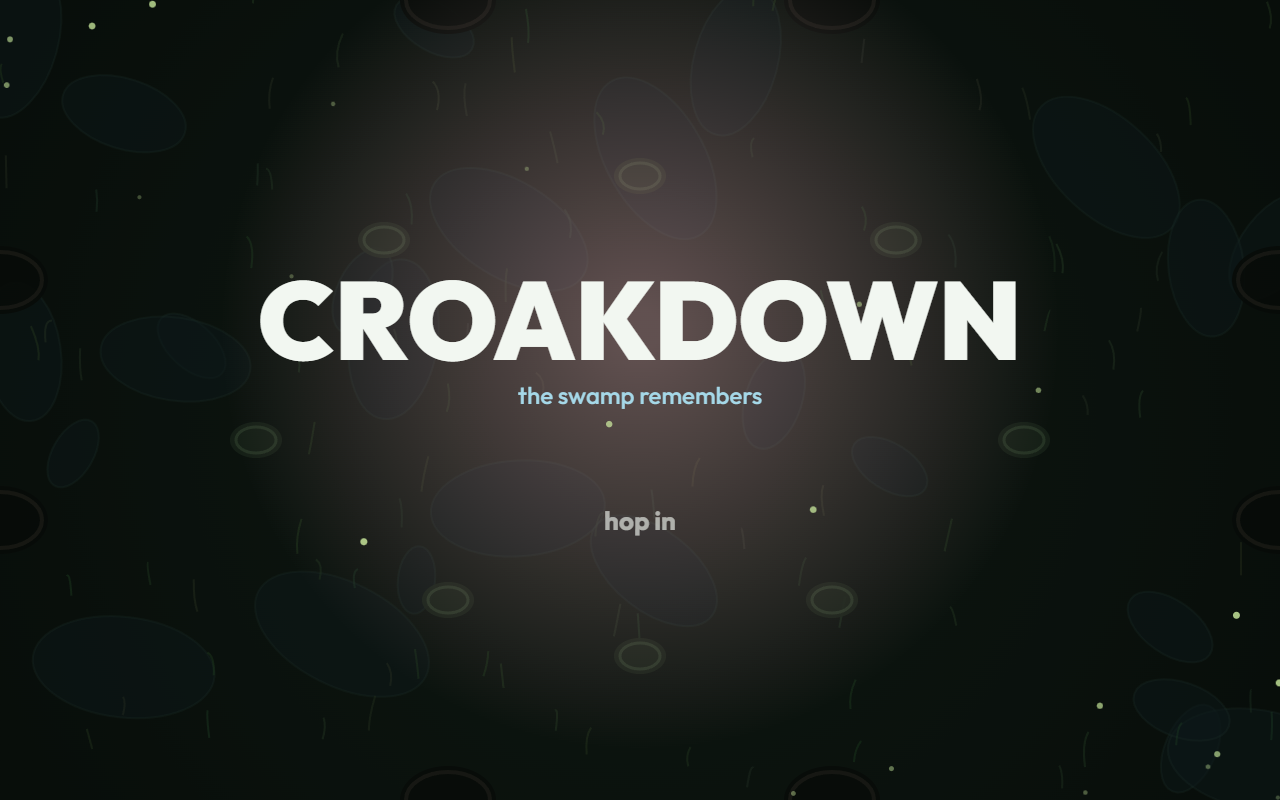
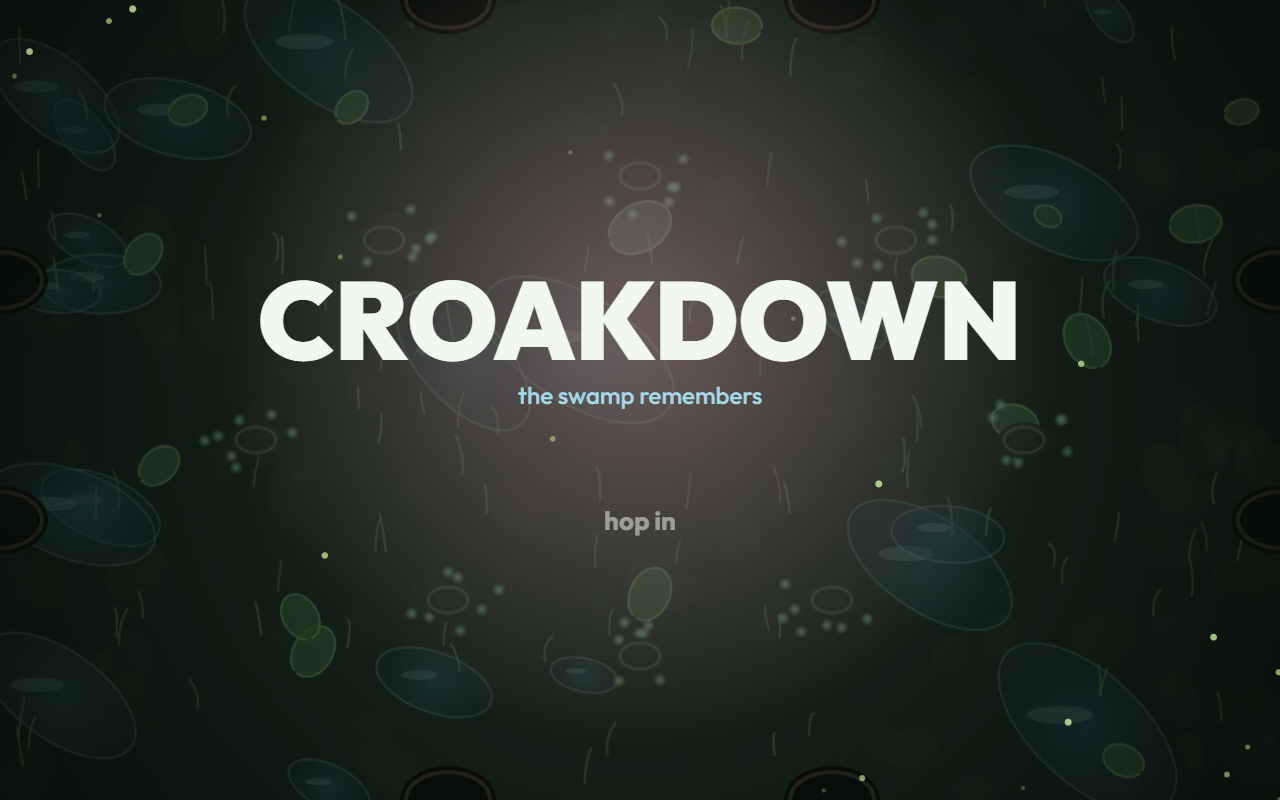
Visual pass 1: readable swamp (pools/pads/moss/vignette), entity shadows, bigger character towers w/ build-phase range rings, brighter enemy palette, wave density + top-up, dawn-mend heart, essence economy x2

diff --git a/src/render.ts b/src/render.ts
@@ -48,32 +48,66 @@ function buildArena(): HTMLCanvasElement {
   const c = document.createElement('canvas');
   c.width = ARENA_W; c.height = ARENA_H;
   const x = c.getContext('2d')!;
-  // bog base
+  // bog base — brighter mid-green so entities (dark-outlined) pop against it
   const grad = x.createRadialGradient(ARENA_W / 2, ARENA_H / 2, 100, ARENA_W / 2, ARENA_H / 2, 700);
-  grad.addColorStop(0, '#17251c');
-  grad.addColorStop(0.6, '#101a14');
-  grad.addColorStop(1, '#0a110d');
+  grad.addColorStop(0, '#2a4232');
+  grad.addColorStop(0.6, '#22362a');
+  grad.addColorStop(1, '#16231c');
   x.fillStyle = grad;
   x.fillRect(0, 0, ARENA_W, ARENA_H);
-  // water pools + reeds (deterministic scatter)
   let s = 12345;
   const rnd = () => { s = (s * 16807) % 2147483647; return s / 2147483647; };
-  for (let i = 0; i < 26; i++) {
-    const px = rnd() * ARENA_W, py = rnd() * ARENA_H, r = 25 + rnd() * 70;
-    x.fillStyle = 'rgba(20, 40, 48, 0.5)';
-    x.beginPath(); x.ellipse(px, py, r, r * 0.55, rnd() * Math.PI, 0, Math.PI * 2); x.fill();
-    x.strokeStyle = 'rgba(60, 100, 90, 0.25)';
-    x.lineWidth = 2;
-    x.stroke();
+  // mottled ground texture
+  for (let i = 0; i < 160; i++) {
+    const px = rnd() * ARENA_W, py = rnd() * ARENA_H, r = 8 + rnd() * 30;
+    x.fillStyle = `rgba(${40 + rnd() * 30}, ${64 + rnd() * 30}, ${44 + rnd() * 24}, ${0.12 + rnd() * 0.12})`;
+    x.beginPath(); x.ellipse(px, py, r, r * 0.7, rnd() * Math.PI, 0, Math.PI * 2); x.fill();
   }
-  for (let i = 0; i < 90; i++) {
+  // water pools — visible teal sheen with bright rims
+  for (let i = 0; i < 22; i++) {
+    const px = rnd() * ARENA_W, py = rnd() * ARENA_H, r = 30 + rnd() * 80;
+    const pool = x.createRadialGradient(px, py, 2, px, py, r);
+    pool.addColorStop(0, 'rgba(60, 120, 130, 0.55)');
+    pool.addColorStop(1, 'rgba(30, 66, 74, 0.35)');
+    x.fillStyle = pool;
+    x.beginPath(); x.ellipse(px, py, r, r * 0.5, rnd() * Math.PI * 0.3, 0, Math.PI * 2); x.fill();
+    x.strokeStyle = 'rgba(140, 210, 200, 0.3)';
+    x.lineWidth = 2.5;
+    x.stroke();
+    // glints
+    x.fillStyle = 'rgba(190, 240, 230, 0.25)';
+    x.beginPath(); x.ellipse(px - r * 0.25, py - r * 0.12, r * 0.3, r * 0.08, 0, 0, Math.PI * 2); x.fill();
+  }
+  // lily pads — rim-lit, readable
+  for (let i = 0; i < 16; i++) {
+    const px = rnd() * ARENA_W, py = rnd() * ARENA_H, r = 14 + rnd() * 20;
+    x.fillStyle = 'rgba(74, 120, 74, 0.85)';
+    x.beginPath(); x.ellipse(px, py, r, r * 0.72, rnd() * Math.PI, 0.3, Math.PI * 2 + 0.1); x.fill();
+    x.strokeStyle = 'rgba(150, 200, 140, 0.55)';
+    x.lineWidth = 2.5; x.stroke();
+  }
+  // reeds
+  for (let i = 0; i < 110; i++) {
     const px = rnd() * ARENA_W, py = rnd() * ARENA_H;
-    x.strokeStyle = `rgba(${50 + rnd() * 30}, ${80 + rnd() * 40}, ${50 + rnd() * 20}, 0.5)`;
-    x.lineWidth = 2;
+    x.strokeStyle = `rgba(${86 + rnd() * 40}, ${130 + rnd() * 40}, ${76 + rnd() * 30}, 0.6)`;
+    x.lineWidth = 2.5;
     x.beginPath();
     x.moveTo(px, py);
-    x.quadraticCurveTo(px + (rnd() - 0.5) * 10, py - 10 - rnd() * 14, px + (rnd() - 0.5) * 16, py - 18 - rnd() * 18);
+    x.quadraticCurveTo(px + (rnd() - 0.5) * 10, py - 12 - rnd() * 16, px + (rnd() - 0.5) * 18, py - 22 - rnd() * 20);
     x.stroke();
+  }
+  // glowing spore moss clusters near root nodes (leads the eye to build sites)
+  for (const n of ROOT_NODES) {
+    const nx = n.x * ARENA_W, ny = n.y * ARENA_H;
+    for (let i = 0; i < 7; i++) {
+      const a = rnd() * Math.PI * 2, d = 30 + rnd() * 26;
+      const sx2 = nx + Math.cos(a) * d, sy2 = ny + Math.sin(a) * d * 0.7;
+      const glow = x.createRadialGradient(sx2, sy2, 0, sx2, sy2, 7);
+      glow.addColorStop(0, 'rgba(170, 240, 190, 0.85)');
+      glow.addColorStop(1, 'rgba(170, 240, 190, 0)');
+      x.fillStyle = glow;
+      x.beginPath(); x.arc(sx2, sy2, 7, 0, Math.PI * 2); x.fill();
+    }
   }
   // root nodes: glowing stump sockets
   for (const n of ROOT_NODES) {
@@ -89,11 +123,25 @@ function buildArena(): HTMLCanvasElement {
     const mx = m.x * ARENA_W, my = m.y * ARENA_H;
     x.fillStyle = 'rgba(8, 10, 8, 0.9)';
     x.beginPath(); x.ellipse(mx, my, 48, 34, 0, 0, Math.PI * 2); x.fill();
-    x.strokeStyle = 'rgba(70, 60, 50, 0.6)';
+    x.strokeStyle = 'rgba(110, 92, 70, 0.7)';
     x.lineWidth = 4;
     x.beginPath(); x.ellipse(mx, my, 42, 28, 0, 0, Math.PI * 2); x.stroke();
   }
+  // fog vignette — depth without hiding the field
+  const vig = x.createRadialGradient(ARENA_W / 2, ARENA_H / 2, 380, ARENA_W / 2, ARENA_H / 2, 820);
+  vig.addColorStop(0, 'rgba(8, 14, 10, 0)');
+  vig.addColorStop(1, 'rgba(8, 14, 10, 0.55)');
+  x.fillStyle = vig;
+  x.fillRect(0, 0, ARENA_W, ARENA_H);
   return c;
+}
+
+// grounding drop shadow under every live entity
+function shadow(ctx: CanvasRenderingContext2D, x: number, y: number, r: number) {
+  ctx.fillStyle = 'rgba(6, 10, 8, 0.35)';
+  ctx.beginPath();
+  ctx.ellipse(x, y + r * 0.75, r * 0.95, r * 0.4, 0, 0, Math.PI * 2);
+  ctx.fill();
 }
 
 // ---------- main draw ----------
@@ -145,7 +193,7 @@ export function draw(ctx: CanvasRenderingContext2D, g: Game, canvasW: number, ca
 // world-state lighting: build = warm dusk, wave = cold night (feat #3, no banners)
 function drawWorldTint(ctx: CanvasRenderingContext2D, g: Game) {
   const d = g.worldDusk; // 0 build → 1 wave
-  ctx.fillStyle = `rgba(${Math.round(40 - d * 30)}, ${Math.round(28 - d * 16)}, ${Math.round(8 + d * 30)}, ${0.16 + d * 0.1})`;
+  ctx.fillStyle = `rgba(${Math.round(60 - d * 45)}, ${Math.round(42 - d * 26)}, ${Math.round(10 + d * 40)}, ${0.10 + d * 0.10})`;
   ctx.fillRect(0, 0, ARENA_W, ARENA_H);
 }
 
@@ -232,6 +280,7 @@ function drawEnemies(ctx: CanvasRenderingContext2D, g: Game) {
     const sy = e.shakeT > 0 ? (Math.random() - 0.5) * 5 : 0;
     const x = e.x + sx, y = e.y + sy, r = e.def.radius;
     const wob = Math.sin(g.time * 6 + e.x * 0.05) * 0.12;
+    shadow(ctx, e.x, e.y, r);
     drawSpriteOr(ctx, `enemy_${e.def.kind}`, x, y, r * 3.4, () => {
       drawEnemyVector(ctx, e.def.kind, x, y, r, e.hitFlash, wob, g.time);
     });
@@ -393,6 +442,7 @@ function drawFrogs(ctx: CanvasRenderingContext2D, g: Game) {
 function drawFrogBody(ctx: CanvasRenderingContext2D, f: Frog, x: number, y: number, t: number, downed: boolean) {
   const hop = downed ? 0 : Math.abs(Math.sin(t * 8 + f.idx)) * (Math.abs(f.vx) + Math.abs(f.vy) > 1 ? 3 : 1);
   const flash = f.hitFlash > 0;
+  if (!downed) shadow(ctx, x, y + 6, 16);
   drawSpriteOr(ctx, `frog_${f.def.id}`, x, y - hop, 52, () => {
     // team rim
     ctx.strokeStyle = P_RIM[f.idx];
@@ -426,22 +476,47 @@ function drawTowers(ctx: CanvasRenderingContext2D, g: Game) {
     const grow = 1 + t.growAnim * 0.25;
     const tier = t.tier;
     const x = t.x, y = t.y;
-    drawSpriteOr(ctx, `tower_${t.kind}_t${tier}`, x, y, 40 + tier * 14, () => {
-      const h = (14 + tier * 9) * grow;
+    // faint range ring while building (TD readability; hidden mid-wave to save clarity)
+    if (g.phase === 'build' || g.phase === 'shop') {
+      const ownerStats = g.frogs[t.owner]?.stats ?? g.frogs[0]?.stats;
+      const range = def.range[t.tier - 1] * (ownerStats?.towerRange ?? 1);
+      ctx.strokeStyle = 'rgba(170, 240, 190, 0.16)';
+      ctx.lineWidth = 2;
+      ctx.setLineDash([6, 8]);
+      ctx.beginPath(); ctx.arc(x, y, range, 0, Math.PI * 2); ctx.stroke();
+      ctx.setLineDash([]);
+    }
+    shadow(ctx, x, y + 4, 16 + tier * 4);
+    drawSpriteOr(ctx, `tower_${t.kind}_t${tier}`, x, y - 10, 56 + tier * 18, () => {
+      const h = (24 + tier * 13) * grow;
+      const sway = Math.sin(g.time * 1.5 + t.node) * 5;
+      // leaves at the base
+      for (const s of [-1, 1]) {
+        ctx.fillStyle = 'rgba(66, 106, 66, 0.9)';
+        ctx.beginPath(); ctx.ellipse(x + s * 10, y + 2, 12, 5, s * 0.5, 0, Math.PI * 2); ctx.fill();
+      }
       // stem
       ctx.strokeStyle = t.hitFlash > 0 ? '#fff' : '#3a5c3a';
-      ctx.lineWidth = 5 + tier;
-      ctx.beginPath(); ctx.moveTo(x, y + 6); ctx.quadraticCurveTo(x + Math.sin(g.time * 1.5 + t.node) * 4, y - h / 2, x, y - h); ctx.stroke();
-      // head per species
+      ctx.lineWidth = 7 + tier * 1.5;
+      ctx.lineCap = 'round';
+      ctx.beginPath(); ctx.moveTo(x, y + 6); ctx.quadraticCurveTo(x + sway, y - h / 2, x + sway * 0.6, y - h); ctx.stroke();
+      ctx.lineCap = 'butt';
+      const hx = x + sway * 0.6, hy = y - h;
+      // head per species (bigger — towers are characters)
       outlined(ctx, t.hitFlash > 0 ? '#fff' : def.tint, t.hitFlash, () => {
         ctx.beginPath();
-        if (t.kind === 'snaplily') { ctx.ellipse(x, y - h, 11 + tier * 3, 8 + tier * 2, Math.sin(g.time * 2) * 0.2, 0, Math.PI * 2); }
-        else if (t.kind === 'sporeshroom') { ctx.arc(x, y - h, 10 + tier * 3.5, Math.PI, 0); ctx.closePath(); }
-        else if (t.kind === 'bulrush') { ctx.ellipse(x, y - h, 6 + tier * 1.5, 13 + tier * 3, 0, 0, Math.PI * 2); }
-        else { ctx.arc(x, y - h, 9 + tier * 3, 0, Math.PI * 2); }
+        if (t.kind === 'snaplily') { ctx.ellipse(hx, hy, 16 + tier * 5, 12 + tier * 3.5, Math.sin(g.time * 2) * 0.25, 0, Math.PI * 2); }
+        else if (t.kind === 'sporeshroom') { ctx.arc(hx, hy, 15 + tier * 5.5, Math.PI * 0.95, Math.PI * 0.05); ctx.closePath(); }
+        else if (t.kind === 'bulrush') { ctx.ellipse(hx, hy, 9 + tier * 2.5, 19 + tier * 4.5, 0, 0, Math.PI * 2); }
+        else { ctx.arc(hx, hy, 13 + tier * 4.5, 0, Math.PI * 2); }
       });
+      // species accents
+      if (t.kind === 'snaplily') { dot(ctx, hx - 5, hy - 3, 2.8, '#fff'); dot(ctx, hx + 5, hy - 3, 2.8, '#fff'); }
+      if (t.kind === 'sporeshroom') for (let i = 0; i < 3; i++) dot(ctx, hx - 8 + i * 8, hy - 4 - (i % 2) * 5, 2.6, 'rgba(240, 220, 250, 0.8)');
+      if (t.kind === 'willowisp') dot(ctx, hx, hy, 5 + Math.sin(g.time * 5) * 1.5, 'rgba(230, 250, 255, 0.9)');
+      if (t.kind === 'moonbell') dot(ctx, hx, hy + 2, 4, 'rgba(255, 255, 255, 0.8)');
       // tier pips (world-readable, no text)
-      for (let i = 0; i < tier; i++) dot(ctx, x - 8 + i * 8, y + 12, 3, '#cfe8a0');
+      for (let i = 0; i < tier; i++) dot(ctx, x - 8 + i * 8, y + 14, 3.2, '#cfe8a0');
     });
     // hp sliver when damaged
     if (t.hp < t.maxHp) {

diff --git a/src/data.ts b/src/data.ts
@@ -26,19 +26,19 @@ export interface EnemyDef {
 }
 
 export const ENEMIES: Record<EnemyKind, EnemyDef> = {
-  sludgeling:   { kind: 'sludgeling', hp: 12, hpPerWave: 5, dmg: 4, dmgPerWave: 0.6, speed: 55, radius: 12, aggro: 'heart', essence: 1, debutWave: 1, tint: '#4a6741' },
-  bogrunner:    { kind: 'bogrunner', hp: 8, hpPerWave: 3.5, dmg: 3, dmgPerWave: 0.5, speed: 95, radius: 10, aggro: 'frog', essence: 1, debutWave: 2, tint: '#5d4a66' },
-  spitter:      { kind: 'spitter', hp: 14, hpPerWave: 5, dmg: 5, dmgPerWave: 0.8, speed: 45, radius: 12, aggro: 'heart', essence: 2, ranged: { range: 220, cooldown: 2.2, projSpeed: 160 }, debutWave: 3, tint: '#6b7d3a' },
-  shellback:    { kind: 'shellback', hp: 40, hpPerWave: 12, dmg: 7, dmgPerWave: 1, speed: 38, radius: 15, aggro: 'heart', essence: 3, armorFront: true, debutWave: 6, tint: '#3d5c5c' },
-  broodmother:  { kind: 'broodmother', hp: 60, hpPerWave: 16, dmg: 6, dmgPerWave: 1, speed: 30, radius: 20, aggro: 'heart', essence: 5, spawns: { kind: 'broodling', every: 4, count: 2 }, debutWave: 9, tint: '#7a4a5e' },
-  broodling:    { kind: 'broodling', hp: 5, hpPerWave: 2, dmg: 2, dmgPerWave: 0.4, speed: 110, radius: 7, aggro: 'frog', essence: 0, debutWave: 9, tint: '#96637a' },
-  dragonfly:    { kind: 'dragonfly', hp: 10, hpPerWave: 4, dmg: 4, dmgPerWave: 0.7, speed: 150, radius: 9, aggro: 'frog', essence: 2, debutWave: 13, tint: '#4a7d8c' },
-  rotleech:     { kind: 'rotleech', hp: 30, hpPerWave: 10, dmg: 10, dmgPerWave: 1.4, speed: 60, radius: 12, aggro: 'tower', essence: 3, eatsTowers: true, debutWave: 16, tint: '#8c5a3a' },
-  hunter:       { kind: 'hunter', hp: 26, hpPerWave: 9, dmg: 8, dmgPerWave: 1.1, speed: 80, radius: 13, aggro: 'frog', essence: 3, debutWave: 5, tint: '#5e3d5c' },
-  elder_sludge: { kind: 'elder_sludge', hp: 220, hpPerWave: 40, dmg: 12, dmgPerWave: 1.5, speed: 42, radius: 26, aggro: 'heart', essence: 20, boss: true, debutWave: 8, tint: '#37503a' }, // wave-8 mini-boss
-  drowned_stag: { kind: 'drowned_stag', hp: 900, hpPerWave: 0, dmg: 16, dmgPerWave: 0, speed: 60, radius: 34, aggro: 'frog', essence: 60, boss: true, debutWave: 10, tint: '#42606e' },
-  mother_of_moths: { kind: 'mother_of_moths', hp: 1600, hpPerWave: 0, dmg: 14, dmgPerWave: 0, speed: 48, radius: 38, aggro: 'heart', essence: 90, boss: true, debutWave: 15, tint: '#8a7d9e' },
-  rotting_king: { kind: 'rotting_king', hp: 2800, hpPerWave: 0, dmg: 20, dmgPerWave: 0, speed: 40, radius: 44, aggro: 'heart', essence: 150, boss: true, debutWave: 20, tint: '#5e6e3a' },
+  sludgeling:   { kind: 'sludgeling', hp: 12, hpPerWave: 5, dmg: 4, dmgPerWave: 0.6, speed: 55, radius: 12, aggro: 'heart', essence: 2, debutWave: 1, tint: '#7ba05e' },
+  bogrunner:    { kind: 'bogrunner', hp: 8, hpPerWave: 3.5, dmg: 3, dmgPerWave: 0.5, speed: 95, radius: 10, aggro: 'frog', essence: 2, debutWave: 2, tint: '#9a7ab0' },
+  spitter:      { kind: 'spitter', hp: 14, hpPerWave: 5, dmg: 5, dmgPerWave: 0.8, speed: 45, radius: 12, aggro: 'heart', essence: 3, ranged: { range: 220, cooldown: 2.2, projSpeed: 160 }, debutWave: 3, tint: '#adc25e' },
+  shellback:    { kind: 'shellback', hp: 40, hpPerWave: 12, dmg: 7, dmgPerWave: 1, speed: 38, radius: 15, aggro: 'heart', essence: 5, armorFront: true, debutWave: 6, tint: '#6a9a9a' },
+  broodmother:  { kind: 'broodmother', hp: 60, hpPerWave: 16, dmg: 6, dmgPerWave: 1, speed: 30, radius: 20, aggro: 'heart', essence: 8, spawns: { kind: 'broodling', every: 4, count: 2 }, debutWave: 9, tint: '#c07a96' },
+  broodling:    { kind: 'broodling', hp: 5, hpPerWave: 2, dmg: 2, dmgPerWave: 0.4, speed: 110, radius: 7, aggro: 'frog', essence: 0, debutWave: 9, tint: '#d69ab4' },
+  dragonfly:    { kind: 'dragonfly', hp: 10, hpPerWave: 4, dmg: 4, dmgPerWave: 0.7, speed: 150, radius: 9, aggro: 'frog', essence: 3, debutWave: 13, tint: '#6ec4d8' },
+  rotleech:     { kind: 'rotleech', hp: 30, hpPerWave: 10, dmg: 10, dmgPerWave: 1.4, speed: 60, radius: 12, aggro: 'tower', essence: 5, eatsTowers: true, debutWave: 16, tint: '#d09055' },
+  hunter:       { kind: 'hunter', hp: 26, hpPerWave: 9, dmg: 8, dmgPerWave: 1.1, speed: 80, radius: 13, aggro: 'frog', essence: 5, debutWave: 5, tint: '#a066b0' },
+  elder_sludge: { kind: 'elder_sludge', hp: 220, hpPerWave: 40, dmg: 12, dmgPerWave: 1.5, speed: 42, radius: 26, aggro: 'heart', essence: 30, boss: true, debutWave: 8, tint: '#8ab060' }, // wave-8 mini-boss
+  drowned_stag: { kind: 'drowned_stag', hp: 900, hpPerWave: 0, dmg: 16, dmgPerWave: 0, speed: 60, radius: 34, aggro: 'frog', essence: 80, boss: true, debutWave: 10, tint: '#7aa8c0' },
+  mother_of_moths: { kind: 'mother_of_moths', hp: 1600, hpPerWave: 0, dmg: 14, dmgPerWave: 0, speed: 48, radius: 38, aggro: 'heart', essence: 120, boss: true, debutWave: 15, tint: '#c0b0dc' },
+  rotting_king: { kind: 'rotting_king', hp: 2800, hpPerWave: 0, dmg: 20, dmgPerWave: 0, speed: 40, radius: 44, aggro: 'heart', essence: 200, boss: true, debutWave: 20, tint: '#a8bc60' },
 };
 
 // ---------- towers (living swamp plants; 3 tiers each) ----------
@@ -124,15 +124,16 @@ export function waveTable(): WaveDef[] {
   for (let w = 1; w <= 20; w++) {
     const groups: SpawnGroup[] = [];
     const dur = w >= 20 ? 100 : Math.min(70, 25 + (w - 1) * 5);
-    // baseline pressure: sludgelings all game, bogrunners from 2
-    groups.push({ kind: 'sludgeling', count: 6 + w * 2, countPerWave: 0, delay: 0, interval: dur / (6 + w * 2) });
-    if (w >= 2) groups.push({ kind: 'bogrunner', count: 3 + w, countPerWave: 0, delay: 3, interval: dur / (3 + w) });
-    if (w >= 3) groups.push({ kind: 'spitter', count: Math.floor(1 + w / 2), countPerWave: 0, delay: 6, interval: 9 });
-    if (w >= 5) groups.push({ kind: 'hunter', count: Math.floor(w / 3), countPerWave: 0, delay: 10, interval: 12 });
-    if (w >= 6) groups.push({ kind: 'shellback', count: Math.floor(w / 3), countPerWave: 0, delay: 8, interval: 11 });
-    if (w >= 9) groups.push({ kind: 'broodmother', count: Math.floor(w / 5), countPerWave: 0, delay: 12, interval: 18 });
-    if (w >= 13) groups.push({ kind: 'dragonfly', count: 4 + Math.floor(w / 2), countPerWave: 0, delay: 5, interval: 4 });
-    if (w >= 16) groups.push({ kind: 'rotleech', count: Math.floor(w / 6), countPerWave: 0, delay: 9, interval: 15 });
+    // baseline pressure: sludgelings all game, bogrunners from 2. Waves must FEEL like waves —
+    // constant bodies (VS minimum-on-screen lesson), not a trickle.
+    groups.push({ kind: 'sludgeling', count: 14 + w * 3, countPerWave: 0, delay: 0, interval: dur / (14 + w * 3) });
+    if (w >= 2) groups.push({ kind: 'bogrunner', count: 6 + w * 2, countPerWave: 0, delay: 2, interval: dur / (6 + w * 2) });
+    if (w >= 3) groups.push({ kind: 'spitter', count: 2 + Math.floor(w / 2), countPerWave: 0, delay: 5, interval: 7 });
+    if (w >= 5) groups.push({ kind: 'hunter', count: 1 + Math.floor(w / 3), countPerWave: 0, delay: 8, interval: 10 });
+    if (w >= 6) groups.push({ kind: 'shellback', count: 1 + Math.floor(w / 3), countPerWave: 0, delay: 7, interval: 9 });
+    if (w >= 9) groups.push({ kind: 'broodmother', count: Math.floor(w / 5), countPerWave: 0, delay: 10, interval: 16 });
+    if (w >= 13) groups.push({ kind: 'dragonfly', count: 6 + Math.floor(w / 2), countPerWave: 0, delay: 4, interval: 3 });
+    if (w >= 16) groups.push({ kind: 'rotleech', count: Math.floor(w / 5), countPerWave: 0, delay: 8, interval: 13 });
     const def: WaveDef = { groups };
     if (w === 8) def.boss = 'elder_sludge';
     if (w === 10) def.boss = 'drowned_stag';

diff --git a/src/game.ts b/src/game.ts
@@ -183,6 +183,9 @@ export function startRun(g: Game) {
 export function enterBuild(g: Game, first = false) {
   g.phase = 'build';
   g.buildReadyT = 0;
+  // dawn-mend (Thronefall pattern): the swamp partially heals its heart between waves —
+  // losses tax the run without spiraling it
+  if (!first) g.heartHp = Math.min(g.heartMax, g.heartHp + Math.round((g.heartMax - g.heartHp) * 0.25));
   // forecast next wave at spawn mouths (world-space, feat #2)
   const next = g.waves[g.wave]; // wave index = next wave (0-based into table)
   g.forecast = [];
@@ -483,14 +486,17 @@ export function updateWave(g: Game, dt: number, inputs: import('./input').Player
   const def = g.waves[g.wave - 1];
   g.waveT += dt;
 
-  // spawn director
+  // spawn director — starving screen accelerates spawns (VS minimum-on-screen lesson)
+  const liveCount = g.enemies.reduce((n, e) => n + (e.alive ? 1 : 0), 0);
+  const minOnScreen = 4 + Math.floor(g.wave * 1.2);
+  const spawnDt = liveCount < minOnScreen ? dt * 3 : dt;
   let allSpawned = true;
   for (const cur of g.spawnCursors) {
     const grp = def.groups[cur.g];
     const total = scaleCount(grp.count, grp.countPerWave, g.wave, g.danger, g.players) * (def.elite ? 1.5 : 1);
     if (cur.spawned >= total) continue;
     allSpawned = false;
-    cur.t -= dt;
+    cur.t -= spawnDt;
     if (cur.t <= 0) {
       spawnEnemy(g, grp.kind, def.elite && g.rng() < 0.12);
       cur.spawned++;
